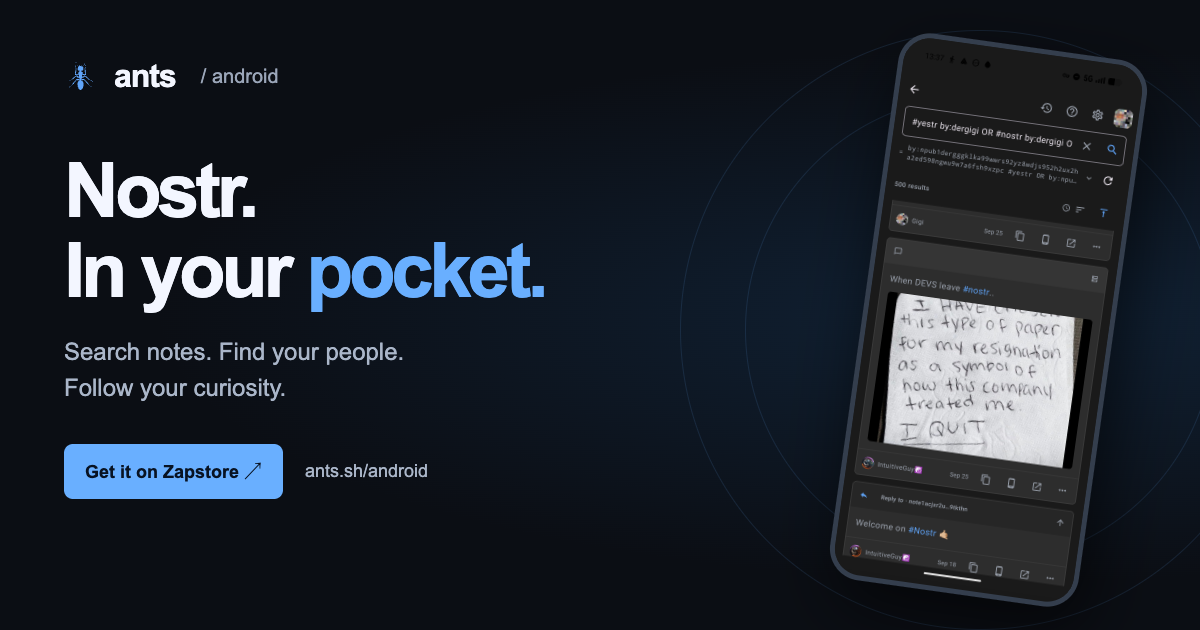
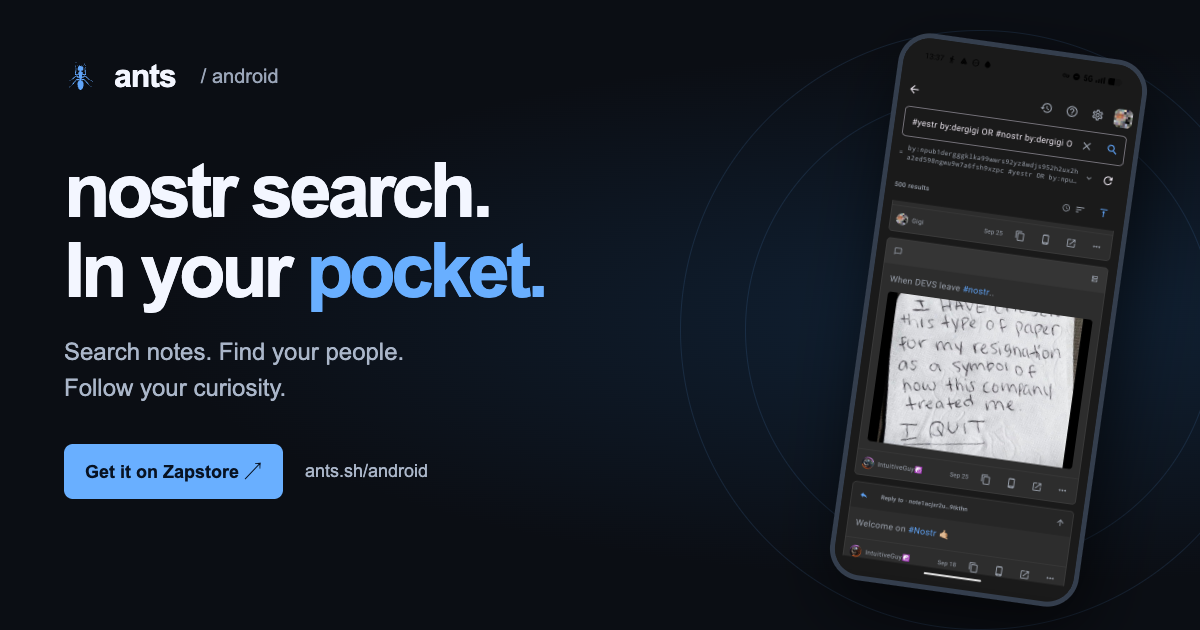
fix: clarify Nostr search in Android social preview

Changed region(s): [[0.0617, 0.2413, 0.4008, 0.3619]]

diff --git a/src/app/android/page.tsx b/src/app/android/page.tsx
@@ -9,7 +9,7 @@ const description =
   "Advanced Nostr search, native on Android. Find notes, discover people, explore media, and follow your curiosity. No account required.";
 
 export const metadata: Metadata = {
-  title: "ants for Android — Nostr in your pocket",
+  title: "ants for Android — nostr search. In your pocket",
   description,
   alternates: { canonical: "/android" },
   openGraph: {
@@ -18,10 +18,10 @@ export const metadata: Metadata = {
     url: "/android",
     images: [
       {
-        url: "/android/og.png",
+        url: "/android/og.png?v=2",
         width: 1200,
         height: 630,
-        alt: "ants for Android — Nostr in your pocket. Search notes, find your people, and follow your curiosity.",
+        alt: "ants for Android — nostr search. In your pocket. Search notes, find your people, and follow your curiosity.",
       },
     ],
   },
@@ -31,8 +31,8 @@ export const metadata: Metadata = {
     description,
     images: [
       {
-        url: "/android/og.png",
-        alt: "ants for Android — Nostr in your pocket",
+        url: "/android/og.png?v=2",
+        alt: "ants for Android — nostr search. In your pocket",
       },
     ],
   },
